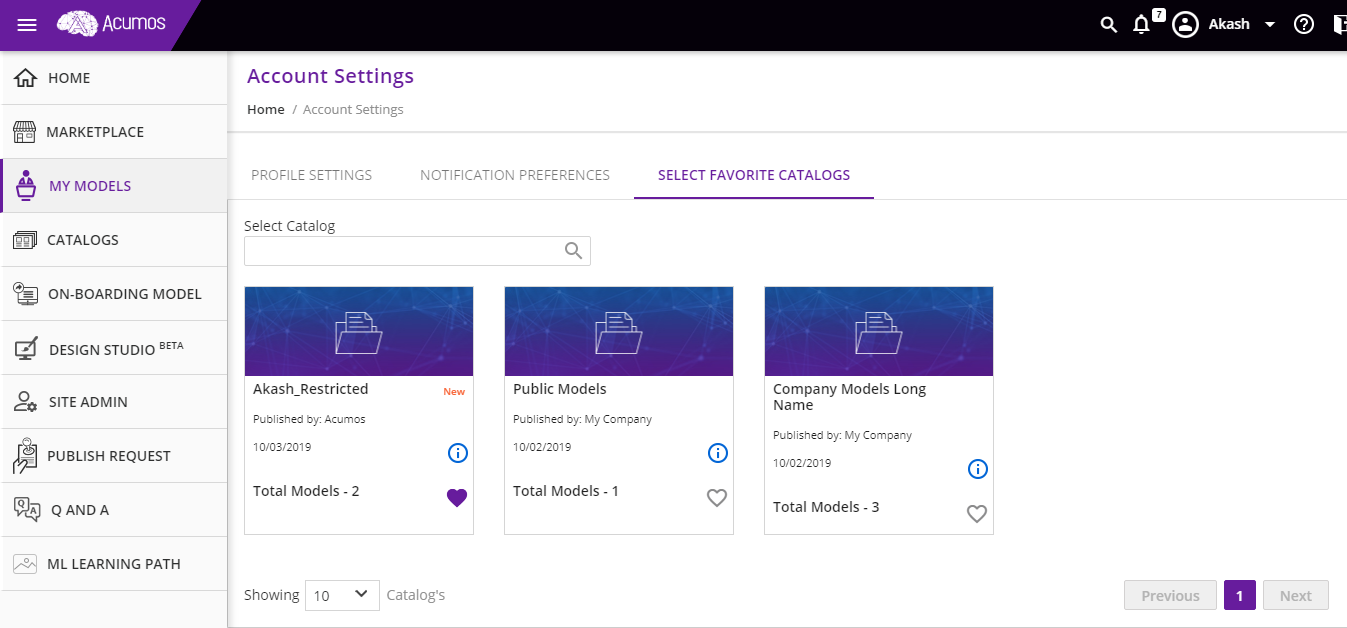
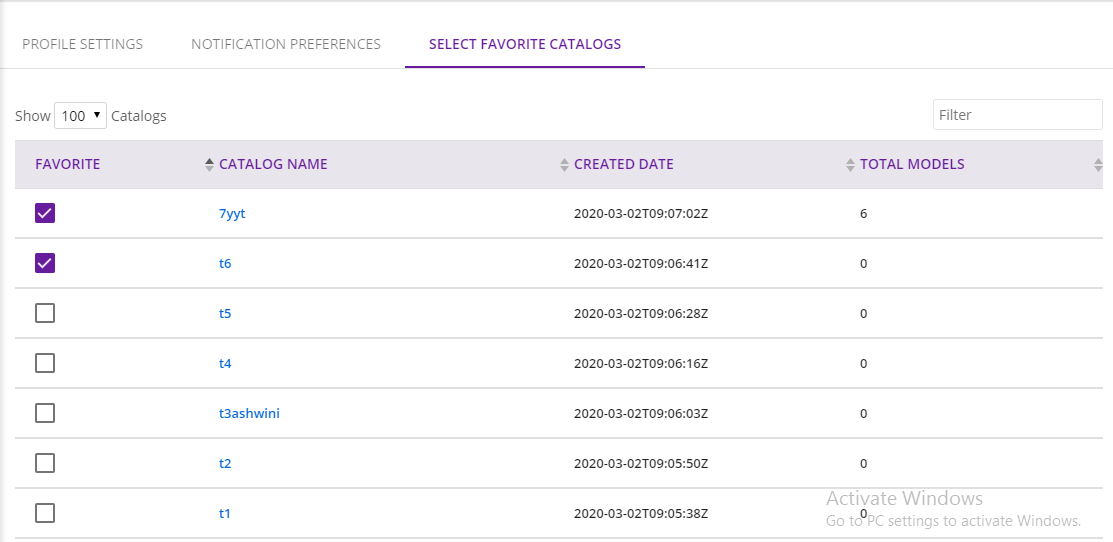
sprint4 documentation
ISSUE-ID: ACUMOS-4148
Description: Portal Documentation: Update the docs for ETE Sprint 4

diff --git a/docs/user-guides/portal-user/accounts.rst b/docs/user-guides/portal-user/accounts.rst
@@ -124,8 +124,9 @@ Password Expiration
 
 Favorite Catalog
 ================
-User can favorite or unfavorite catalog by clicking on favorite icon. Once user click on favorite icon, icon will get changed into filled one.
-The Catalogs are of all public catalogs and restricted catalogs which the user is being assigned.
+1)User can view favourite catalogs under **SELECT FAVOURITE CATALOG** tab.
+
+2)**SELECT FAVOURITE CATALOG** tab will display all the catalogs among which favourite catalogs can be displayed as checked.
 
     .. image:: images/portal/Account_setting_favorite_selected_catalog.png
 

diff --git a/docs/user-guides/portal-admin/role_management.rst b/docs/user-guides/portal-admin/role_management.rst
@@ -65,7 +65,7 @@ The **Update** button updates the existing permissions with new permissions.
 				.. image:: images/update_role.PNG
 	               			 :width: 75%
 
-The **Delete** Icon allows the admin to delete a particular Role along with their pemissions.
+The **Delete** Icon allows the admin to delete a particular Role along with their permissions.
 
 				.. image:: images/delete_role.PNG
 	                		 :width: 75%
